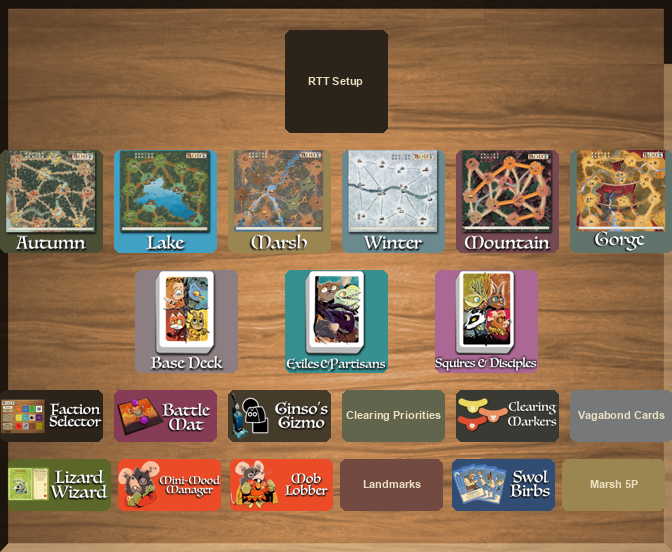
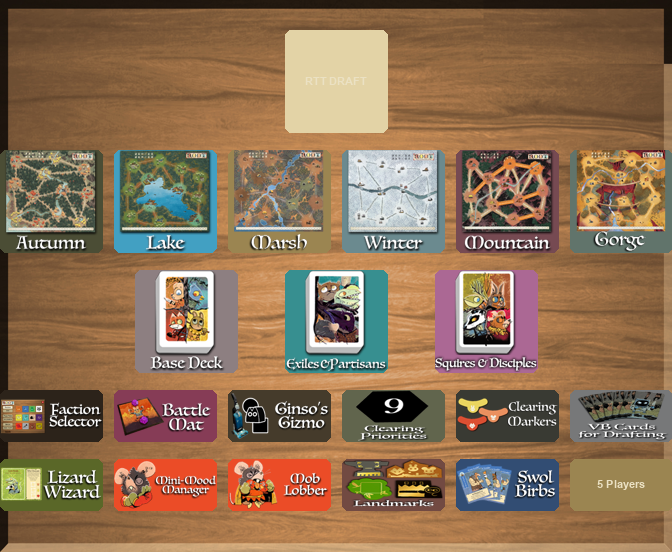
Align grid rows, restore reference art, card-style RTT, "5 Players"
- gen_layout: both bottom-grid rows spacing 38 (were 38/37) so columns line up.
- m355: references keep their original Steam icons (art shows again: Clearing
  Priorities "9", VB Cards, Landmarks). 1:1 art in a 34x17 row -> mild stretch (the
  trade for reliable art; padded no-stretch icons blank in TTS).
- m420: RTT button styled like a Root card face (parchment #e3d3a6 bg, dark bold
  "RTT DRAFT").
- m410: relabel Marsh 5P box -> "5 Players".

diff --git a/mods/m355_setup_fixes.py b/mods/m355_setup_fixes.py
@@ -25,12 +25,8 @@ def apply(text):
         text, n = framework.remove_xml_buttons(text, bid)
         if n == 0:
             raise framework.BuildError("setup button to remove not found: %r" % bid)
-    # References -> plain TEXT rectangle buttons. The original 1:1 icons look wrong in
-    # the row (square/stretched) and custom fit-icons blank in TTS; a text label is
-    # reliable, always visible, and keeps the half-tile rectangle shape.
-    text = framework.replace_unique(text, 'icon =\\"Vagabond Cards\\"', 'text=\\"Vagabond Cards\\"')
-    text = framework.replace_unique(text, 'icon =\\"Landmarks\\"', 'text=\\"Landmarks\\"')
-    text = text.replace('icon=\\"Clearing Priorities Big\\"', 'text=\\"Clearing Priorities\\"')
-    for bid in ("Vagabond Cards", "Landmarks", "Clearing Priorities"):
-        text, _ = framework.set_button_attr(text, bid, "fontSize", "6")
+    # References keep their ORIGINAL (Steam, reliably-loading) icons so the art shows,
+    # like the tool boxes. They're 1:1 art in the 34x17 row, so TTS stretches them a
+    # little — the trade for reliable, always-visible art (custom padded icons blank
+    # in TTS). Sized/aligned by gen_layout.
     return text

diff --git a/mods/m420_rtt_button_style.py b/mods/m420_rtt_button_style.py
@@ -1,0 +1,22 @@
+"""
+m420 — style the RTT button like a Root card face.
+
+The plain dark RTT text button looked ugly. We can't use a custom image (they blank
+in TTS), but the XmlUI colour attributes work: give it the deck's parchment/cream
+face with dark-brown bold lettering, echoing Root's craftable cards.
+"""
+from . import framework
+
+NAME = "style the RTT button like a Root card (parchment + dark bold text)"
+
+
+def apply(text):
+    # add textColor + fontStyle (the button has neither by default)
+    text = framework.replace_unique(
+        text, 'id=\\"rttSetup\\"',
+        'id=\\"rttSetup\\" textColor=\\"#3d2c15\\" fontStyle=\\"Bold\\"')
+    for attr, val in (("color", "#e3d3a6"), ("fontSize", "11"), ("text", "RTT DRAFT")):
+        text, n = framework.set_button_attr(text, "rttSetup", attr, val)
+        if n == 0:
+            raise framework.BuildError("rttSetup %s not set" % attr)
+    return text

diff --git a/tools/gen_layout.py b/tools/gen_layout.py
@@ -31,7 +31,7 @@ ROWS = [
     (["Summer Map", "Lake Map", "Marsh Map", "Winter Map", "Mountain Map", "Gorge Map"], 34, 34, 38),
     (["Standard Deck", "Exiles and Partisans Deck", "Squires and Disciples Deck"], 34, 34, 50),
     (["Faction Select", "Battle Mat", "Ginso's Gizmo", "Clearing Priorities", "Clearing Markers", "Vagabond Cards"], 34, 17, 38),
-    (["Lizard Wizard", "Mini-Mood Manager", "Mob Lobber", "Landmarks", "Swol Birbs", "Marsh5P"], 34, 17, 37),
+    (["Lizard Wizard", "Mini-Mood Manager", "Mob Lobber", "Landmarks", "Swol Birbs", "Marsh5P"], 34, 17, 38),
 ]
 
 els = []

diff --git a/mods/registry.py b/mods/registry.py
@@ -55,6 +55,7 @@ from . import m380_faction_selector_clean
 from . import m390_no_hover_credits
 from . import m400_remove_fan_factions
 from . import m410_marsh_5p
+from . import m420_rtt_button_style
 
 # Ready-made examples — uncomment to begin layering real modifications:
 # from . import m010_no_marquise_dice
@@ -97,6 +98,7 @@ MODS = [
     m340_layout_polish,
     m355_setup_fixes,
     m410_marsh_5p,
+    m420_rtt_button_style,
     m350_custom_layout,
     m360_board_cleanup,
     m380_faction_selector_clean,

diff --git a/mods/m410_marsh_5p.py b/mods/m410_marsh_5p.py
@@ -16,7 +16,7 @@ FUNC = (
     '  broadcastToAll("Marsh map - 5-player option", {0.9,0.85,0.6})\n'
     'end\n\n'
 )
-BUTTON = ('<Button id="Marsh5P" onclick="rttMarsh5P" text="Marsh 5P" '
+BUTTON = ('<Button id="Marsh5P" onclick="rttMarsh5P" text="5 Players" '
           'position="0 -73 -20" width="34" height="17" fontSize="7" color="#9b8551"/>')
 
 
